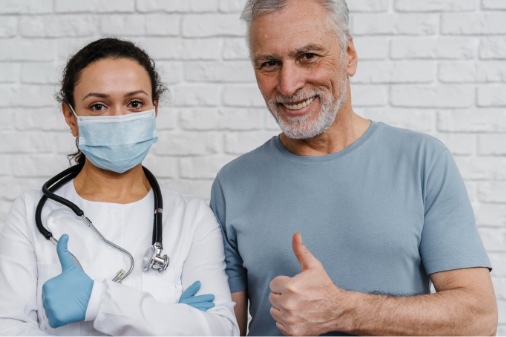
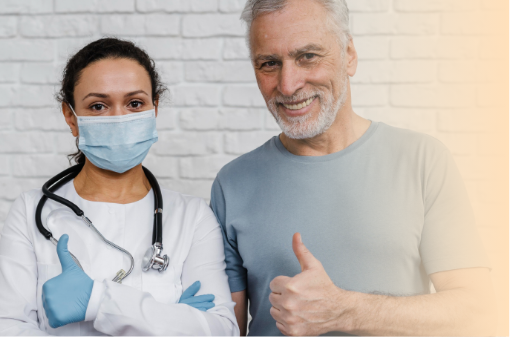
Tema3

diff --git a/src/views/Tema3.vue b/src/views/Tema3.vue
@@ -6,36 +6,154 @@
       .titulo-principal__numero
         span 3
       h1 Derecho fundamental a la salud
-
+    figure.mb-4
+      img(src='@/assets/curso/temas/tema3/img1.png', alt='')
+    p El reconocimiento del derecho a la salud como derecho fundamental en Colombia representa un avance significativo en la protección de la dignidad humana y en la garantía del bienestar de la población. Este derecho implica que todas las personas deben acceder a servicios de salud bajo condiciones que aseguren una atención pertinente, humanizada y sin barreras injustificadas. Además, permite comprender que la salud no se limita a la atención de la enfermedad, sino que integra acciones de promoción, prevención, tratamiento y cuidado. En este sentido, su garantía requiere la acción articulada del Estado, las instituciones y la ciudadanía, conforme a los principios que orientan el sistema de salud. 
+    p.mb-4 Este derecho implica que todas las personas deben acceder a servicios de salud de manera:
     .row.justify-content-center.align-items-center.mb-5
       .col-lg-5.col-8.mb-4.mb-lg-0
+        figure
+          img(src='@/assets/curso/temas/tema3/img2.svg', alt='')
       .col-lg-7
          LineaTiempoD.color-acento-botones
-          p.text-small(numero="1" titulo="")
-          p.text-small(numero="2" titulo="")
-          p.text-small(numero="3" titulo="")
-          p.text-small(numero="4" titulo="")
-          p.text-small(numero="5" titulo="")
-
+          p(numero="1" titulo="Oportuna")
+            | Permite que la atención en salud se brinde en el momento adecuado, de acuerdo con las necesidades de la persona y sin demoras que puedan afectar su bienestar. Este principio favorece la prevención de complicaciones y fortalece la respuesta institucional frente a situaciones que requieren atención inmediata.
+          p(numero="2" titulo="Integral")
+            | Comprende la atención en salud como un proceso continuo que incluye promoción, prevención, diagnóstico, tratamiento, rehabilitación y cuidado. Este principio permite atender las necesidades de las personas de manera completa y articulada, no solo cuando aparece la enfermedad.
+          p(numero="3" titulo="Sin discriminación")
+            | Garantiza que todas las personas reciban atención en salud sin distinción por edad, género, condición social, origen étnico, discapacidad, ubicación territorial u otra característica particular. Este principio fortalece la igualdad de trato y la protección de la dignidad humana.
+          p(numero="4" titulo="Con equidad")
+            | Busca que las personas accedan a los servicios de salud según sus necesidades y condiciones particulares. Este principio permite reducir barreras económicas, geográficas, culturales o sociales que pueden limitar la garantía efectiva del derecho a la salud.
+          p(numero="5" titulo="Con universalidad")
+            | Establece que todas las personas deben ser reconocidas como titulares del derecho a la salud. Este principio orienta la acción del Estado hacia la protección de la población y la garantía de condiciones dignas de atención.
+    .row.justify-content-center.align-items-center.mb-4
+      .col-lg-auto
+        figure
+          img(src='@/assets/curso/temas/tema3/img3.svg', alt='')
+      .col-lg-8
+        .p-4.bg1
+          p.mb-0 La aplicación de estos principios permite comprender que el derecho fundamental a la salud requiere una respuesta organizada, inclusiva y pertinente por parte del sistema de salud. Su cumplimiento no depende únicamente de la existencia de servicios, sino también de la calidad de la atención, la eliminación de barreras y la participación activa de la ciudadanía en la protección de la salud colectiva.
+    .bloque-texto-g.bloque-texto-g--inverso.color-primario.p-3.p-sm-4.p-md-5.mb-4
+      .bloque-texto-g__img(
+        :style="{'background-image': `url(${require('@/assets/curso/temas/tema3/img4.png')})`}"
+      )
+      .bloque-texto-g__texto.p-4
+        p.mb-0 Después de reconocer los principios que orientan el derecho fundamental a la salud, es necesario identificar los diferentes actores que intervienen en su garantía. Cada actor cumple una función específica dentro del sistema, por lo que su articulación permite fortalecer la atención, la participación social, el control ciudadano y la protección efectiva de la salud en los territorios.
+    .row.justify-content-center.align-items-center.mb-4
+      .col-lg-10
+        .p-4.cajon.color-secundario
+          p.mb-0 En síntesis, el derecho fundamental a la salud se comprende como una garantía integral que articula principios, responsabilidades y mecanismos de participación. Su aplicación permite avanzar hacia un sistema más equitativo, transparente y centrado en las necesidades de la población, donde la ciudadanía cumple un papel activo en la protección y el mejoramiento de la salud colectiva.
+    p A partir de este marco, resulta pertinente analizar la Ley Estatutaria de Salud, ya que esta norma define los alcances, principios y responsabilidades que orientan la garantía del derecho fundamental a la salud en Colombia.
     Separador
     #t_3_1.titulo-segundo.color-acento-contenido(data-aos="fade-left")
       h2 3.1 Ley Estatutaria de Salud
-
+    p La Ley Estatutaria 1751 de 2015 constituye el marco normativo principal que regula el derecho fundamental a la salud en Colombia, estableciendo su carácter autónomo, irrenunciable y de aplicación inmediata. Esta norma reconoce la salud como un derecho inherente a la dignidad humana y define las condiciones necesarias para su garantía, orientadas a asegurar el acceso a servicios de salud de manera integral y sin barreras (Congreso de la República de Colombia, 2015).
+    .row.justify-content-center.align-items-center.mb-4
+      .col-lg-4
+        figure
+          img(src='@/assets/curso/temas/tema3/img5.png', alt='')
+      .col-lg-8
+        .row.mb-2
+          .col-lg-auto
+            figure
+              img(src='@/assets/curso/temas/tema3/img6.svg', alt='')
+          .col-lg-10
+            p.mb-0 A partir de esta ley, se establecen principios fundamentales como la universalidad, la equidad, la continuidad, la integralidad y la participación social, los cuales orientan la organización y funcionamiento del sistema de salud. Estos principios buscan garantizar que todas las personas reciban atención en condiciones adecuadas, respetando sus necesidades y contextos particulares.
+        .p-4.cajon.color-primario
+          p.mb-0 Otro aspecto relevante de la Ley Estatutaria es el fortalecimiento del papel del Estado como garante del derecho a la salud, lo que implica la adopción de políticas públicas, la regulación de los servicios y la supervisión de los actores del sistema. Asimismo, se reconoce la participación de la ciudadanía como un elemento clave para la vigilancia y el mejoramiento continuo del sistema de salud.
+    p Para facilitar la comprensión de los elementos principales de la Ley Estatutaria en Salud, es necesario reconocer los aspectos que orientan la garantía del derecho fundamental a la salud en Colombia. Estos elementos permiten identificar cómo se relacionan el acceso a los servicios, la calidad de la atención, la participación ciudadana y los determinantes sociales en la protección integral de la salud:
+    SlyderF.mb-5(columnas="col-lg-6 col-xl-4")
+      .tarjeta.BG04.p-4
+        .row.justify-content-center.mb-3
+          .col-5
+            img(src='@/assets/curso/temas/tema3/img7.svg' alt='AvatarTop')
+        h5.text-center Derecho fundamental a la salud
+        p.text-center Se reconoce la salud como un derecho fundamental autónomo que debe ser garantizado por el Estado y que implica el acceso oportuno, eficaz y de calidad a los servicios de salud.
+      .tarjeta.BG04.p-4 
+        .row.justify-content-center.mb-3
+          .col-5
+            img(src='@/assets/curso/temas/tema3/img8.svg' alt='AvatarTop')
+        h5.text-center Integralidad de la atención
+        p.text-center La atención en salud debe contemplar todas las acciones necesarias para la promoción, prevención, diagnóstico, tratamiento, rehabilitación y cuidados paliativos, garantizando un enfoque integral en la atención de las personas.
+      .tarjeta.BG04.p-4 
+        .row.justify-content-center.mb-3
+          .col-5
+            img(src='@/assets/curso/temas/tema3/img9.svg' alt='AvatarTop')
+        h5.text-center Acceso equitativo a los servicios de salud
+        p.text-center Todas las personas deben tener acceso a los servicios de salud sin discriminación, garantizando condiciones de igualdad y equidad en el sistema.
+      .tarjeta.BG04.p-4 
+        .row.justify-content-center.mb-3
+          .col-5
+            img(src='@/assets/curso/temas/tema3/img10.svg' alt='AvatarTop')
+        h5.text-center Participación social
+        p.text-center La ciudadanía tiene derecho a participar en las decisiones relacionadas con la organización y funcionamiento del sistema de salud, así como en los procesos de control social.
+      .tarjeta.BG04.p-4 
+        .row.justify-content-center.mb-3
+          .col-5
+            img(src='@/assets/curso/temas/tema3/img12.svg' alt='AvatarTop')
+        h5.text-center Determinantes sociales de la salud
+        p.text-center La ley reconoce que la salud está influenciada por factores sociales, económicos, ambientales y culturales, los cuales deben ser considerados en la formulación de políticas públicas.
+    .row.justify-content-center.align-items-center
+      .col-lg-10
+        .p-4.cajon.color-secundario
+          .row.justify-content-center.align-items-center
+            .col-lg-2
+              figure
+                img(src='@/assets/curso/temas/tema3/img13.svg', alt='')
+            .col-lg-10
+              p.mb-0 En conjunto, estos elementos permiten comprender que la Ley Estatutaria en Salud no solo reconoce la salud como un derecho fundamental, sino que también establece condiciones para su garantía efectiva. Por ello, su aplicación fortalece el acceso oportuno y equitativo a los servicios, promueve la participación de la ciudadanía y orienta la toma de decisiones públicas hacia el bienestar de la población.
     Separador
     #t_3_2.titulo-segundo.color-acento-contenido(data-aos="fade-left")
       h2 3.2 Componentes del derecho a la salud
+    p El derecho fundamental a la salud se estructura a partir de componentes que permiten garantizar su ejercicio efectivo en condiciones de calidad, accesibilidad y equidad. Estos componentes orientan la prestación de los servicios de salud y establecen criterios para evaluar el cumplimiento de este derecho en el sistema de salud.
+    .row.justify-content-center.align-items-center.bg4.mb-4
+      .col-lg-5
+        figure
+          img(src='@/assets/curso/temas/tema3/img14.png', alt='')
+      .col-lg-7.tarjeta.color-primario.p-4
+        .row
+          .col-lg-auto
+            figure.mb-2
+              img(src='@/assets/curso/temas/tema3/img15.svg', alt='')
+          .col-lg-12
+            p Entre los principales componentes se destacan la disponibilidad, entendida como la existencia suficiente de servicios, tecnologías y recursos en salud; la accesibilidad, que implica la eliminación de barreras económicas, geográficas y administrativas; la aceptabilidad, relacionada con el respeto por las condiciones culturales, sociales y personales de los usuarios; y la calidad, que garantiza que los servicios de salud se presten de manera adecuada, segura y oportuna.
+    p La articulación de estos componentes permite comprender el derecho a la salud desde una perspectiva integral, en la que no solo se garantiza el acceso a los servicios, sino también la pertinencia y la calidad de la atención. Este enfoque contribuye a reducir inequidades, fortalecer la confianza de la ciudadanía en el sistema de salud y reconocer los elementos que orientan su garantía. A continuación, se presentan los componentes principales del derecho fundamental a la salud:
+  
+    .row.mb-4
+        .col-md-6.col-xl.mb-4.mb-xl-0
+          .tarjeta-numerada.color-primario.p-5.h-100
+            .tarjeta-numerada__numero
+              .h2 1
+            p.text-center
+              b Disponibilidad
+            p.text-center Existencia suficiente de servicios, instituciones, programas, personal de salud, tecnologías y recursos necesarios para atender las necesidades de la población.
+        .col-md-6.col-xl.mb-4.mb-xl-0
+          .tarjeta-numerada.color-secundario.p-5.h-100
+            .tarjeta-numerada__numero
+              .h2 2
+            p.text-center
+              b Accesibilidad
+            p.text-center Posibilidad real de que todas las personas puedan acceder a los servicios de salud sin discriminación.
+        .col-md-6.col-xl.mb-4.mb-xl-0
+          .tarjeta-numerada.color-acento-contenido.p-5.h-100
+            .tarjeta-numerada__numero
+              .h2 3
+            p.text-center
+              b Aceptabilidad
+            p.text-center Los servicios de salud deben ser respetuosos de los valores culturales, sociales y éticos de las personas y las comunidades.
+        .col-md-6.col-xl.mb-4.mb-xl-0
+          .tarjeta-numerada.color-adicional-1.p-5.h-100
+            .tarjeta-numerada__numero
+              .h2 4
+            p.text-center
+              b Calidad
+            p.text-center Los servicios de salud deben prestarse con estándares científicos, técnicos y humanos que garanticen la seguridad del paciente y la eficacia de las intervenciones en salud.
 
-    Separador
-    #t_3_3.titulo-segundo.color-acento-contenido(data-aos="fade-left")
-      h2 3.3 Política de Participación Social en Salud
+    .row.justify-content-center.align-items-center.mb-5
+      .col-lg-10
+        .p-4.cajon.color-primario
+          p.mb-0 El reconocimiento de la salud como derecho fundamental y la definición de sus componentes permiten establecer un marco sólido para su garantía en Colombia. A partir de estos elementos, resulta pertinente analizar la Política de Participación Social en Salud, la cual orienta la intervención de la ciudadanía en la gestión del sistema y el fortalecimiento del control social.
 
-    Separador
-    #t_3_4.titulo-segundo.color-acento-contenido(data-aos="fade-left")
-      h2 3.4 Marco estratégico
-
-    Separador
-    #t_3_5.titulo-segundo.color-acento-contenido(data-aos="fade-left")
-      h2 3.5 Principios orientadores y ejes de la política
 </template>
 
 <script>

diff --git a/src/styles/_custom.sass b/src/styles/_custom.sass
@@ -87,13 +87,19 @@
   background-color: #DDADFC
 .bg3
   background-color: #854601
-
+.bg4
+  background-color: #FFE0BB
 .tarjeta--blanco
   background-color: #FFFFFF
 .cajon.color-primario
   background-color: #FFF1E4
 .cajon.color-secundario
   background-color: #FFE6E7
+.tarjeta-numerada.color-adicional-1
+  border-color: #DDADFC
+
+.tarjeta-numerada.color-adicional-1 .tarjeta-numerada__numero
+  background-color: #DDADFC
 
 .bloque-texto-f.color-secundario:before
   background-color: #FFE6E7